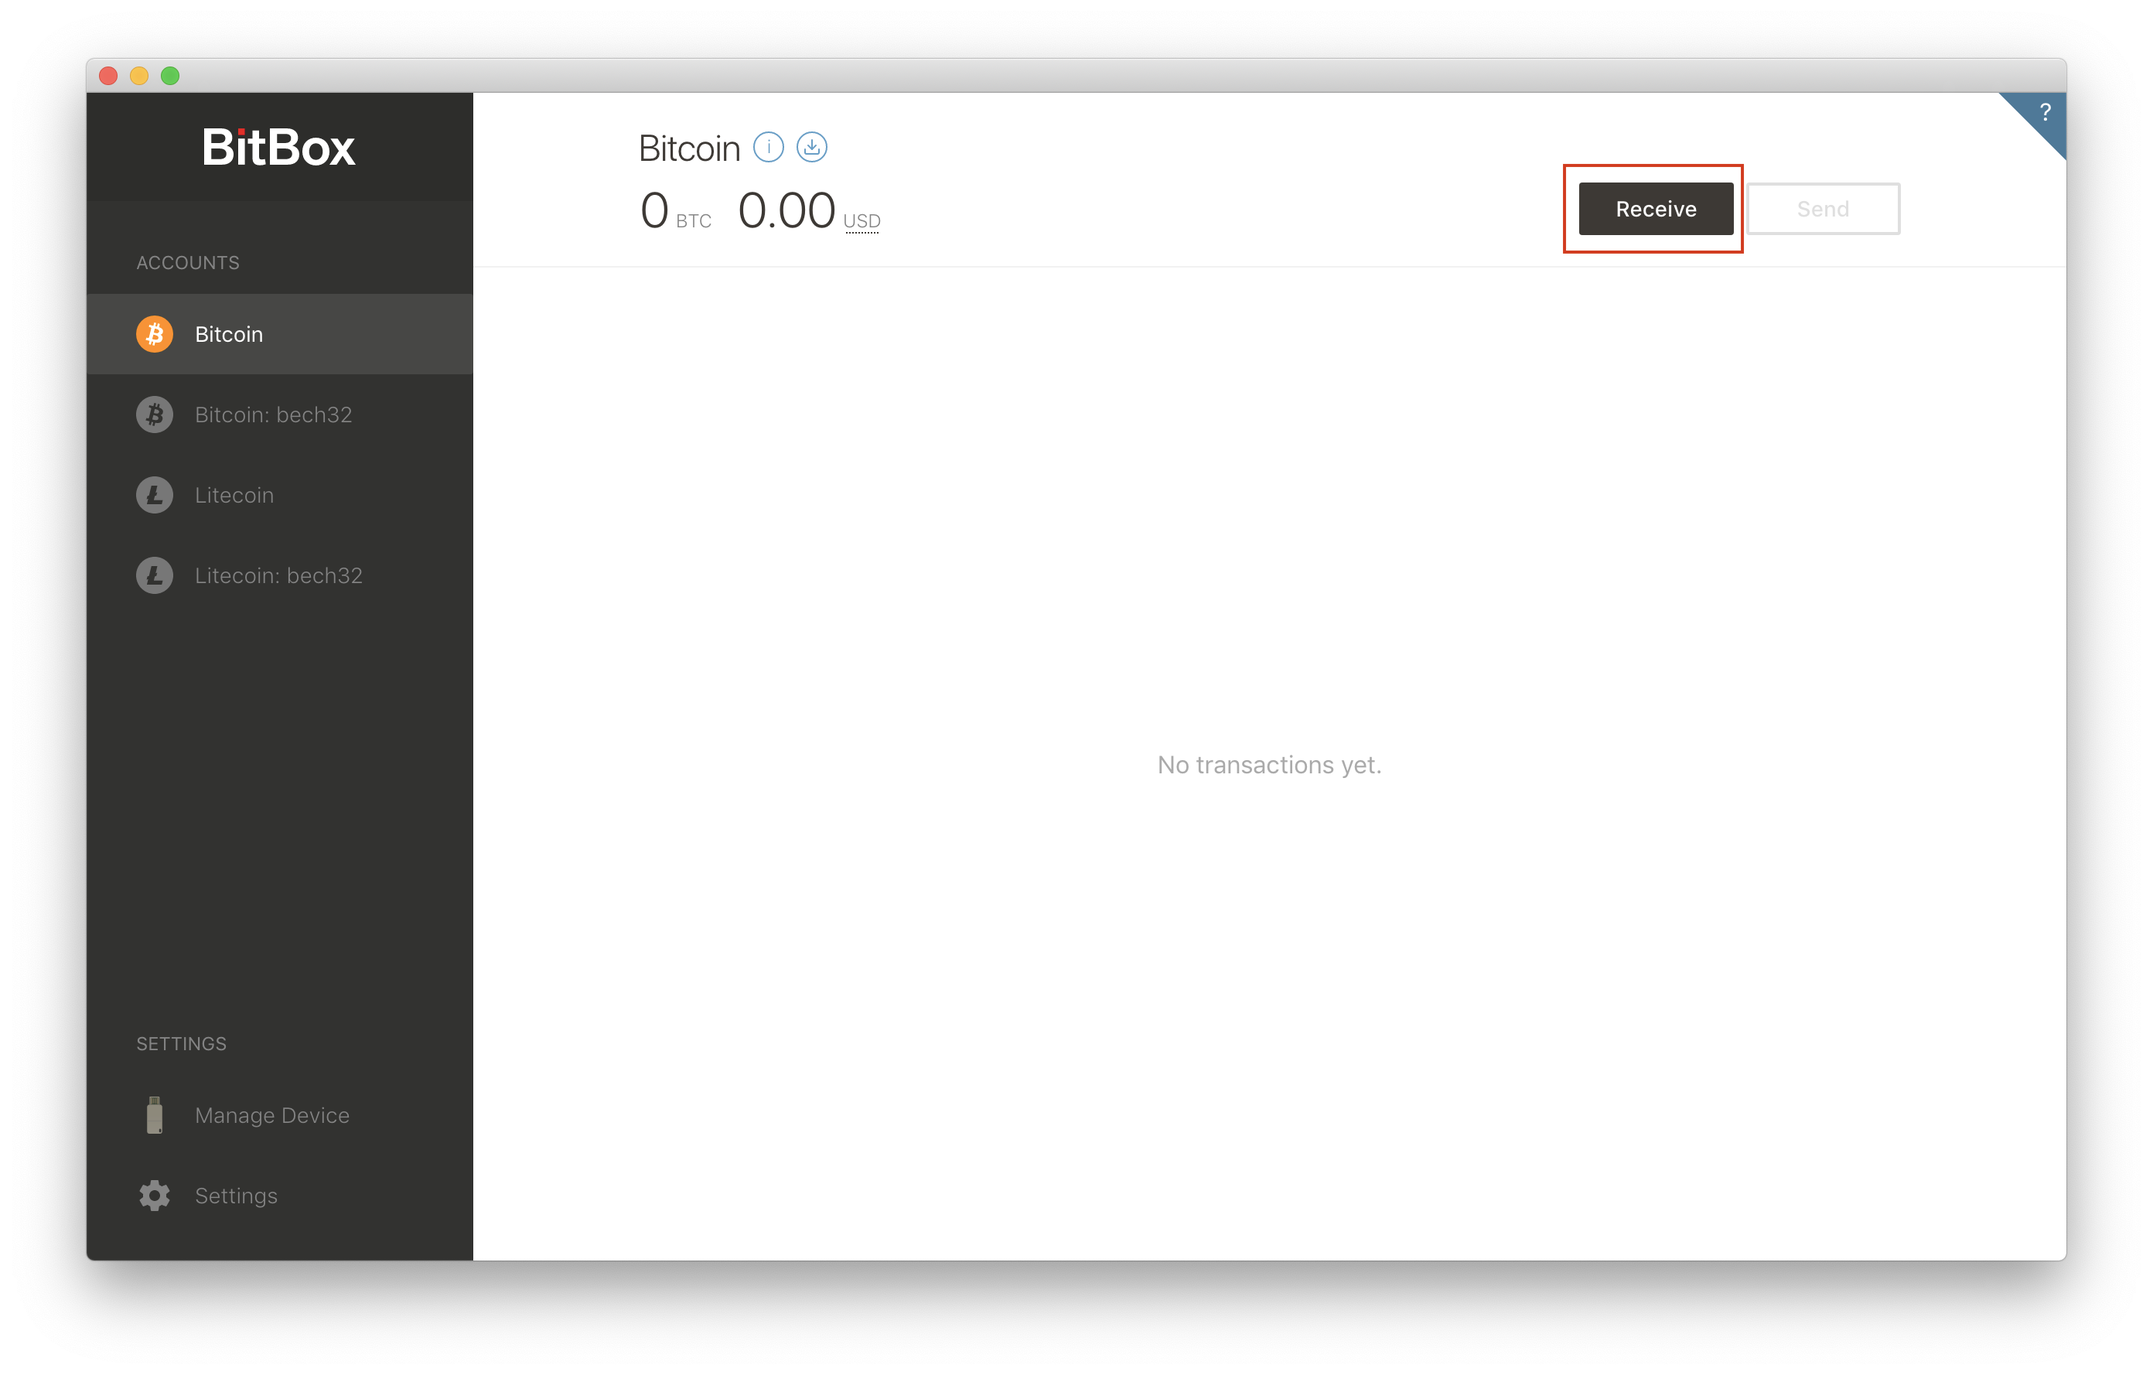
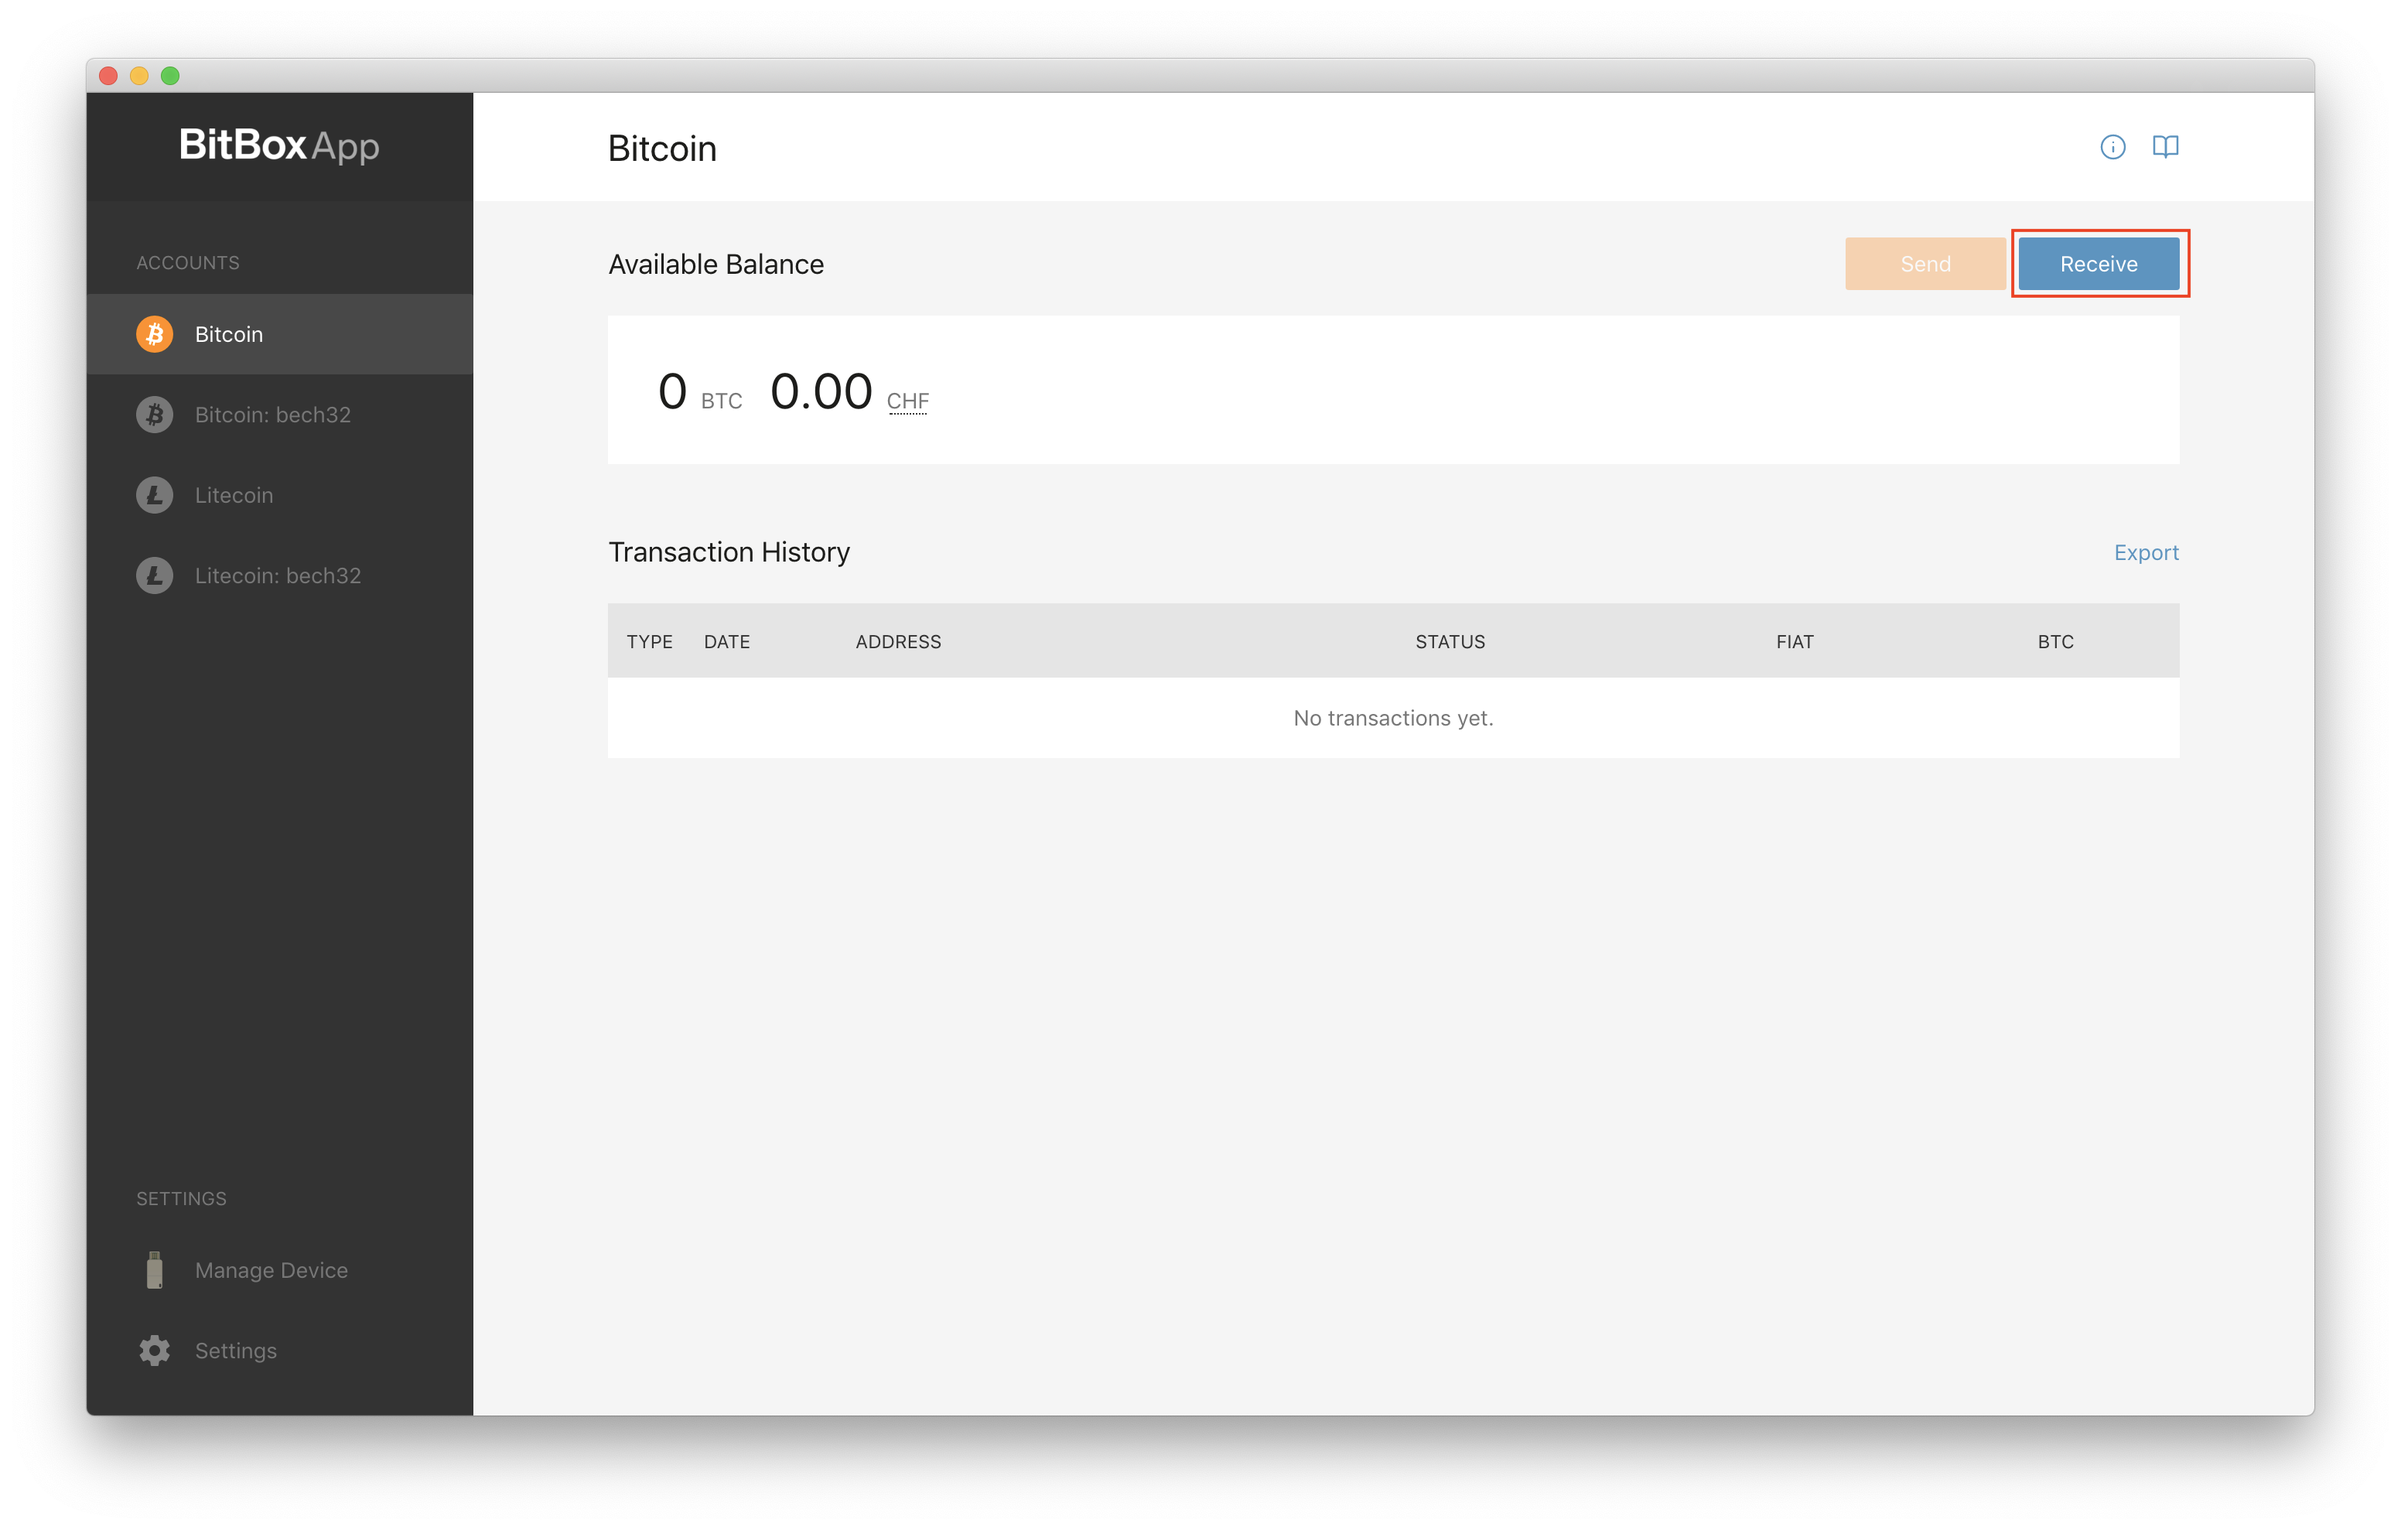
updated BB02 receive

Changed region(s): [[0.0312, 0.0309, 0.9688, 0.928], [0.25, 0.3403, 0.9062, 0.4949], [0.2812, 0.2475, 0.375, 0.2784]]

diff --git a/_includes/shared/setup.md b/_includes/shared/setup.md
@@ -1,25 +1,23 @@
 
 ## Download the BitBox App
 In order to set up your {{include.product}} and create your first wallet you need to download the BitBox App for your computer.
-Stay tuned for our mobile app! To be notified when it is available you can subscribe to our newsletter here.
+Stay tuned for our mobile app! To be notified when it is available you can subscribe to our newsletter [here](https://shiftcrypto.us20.list-manage.com/subscribe/post?u=d425177ce9ba3482f7f26762a&id=df03d20df1)
 
 [Download](https://shiftcrypto.ch/start/){: .btn .btn-primary .fs-5 .mb-4 .mb-md-0 .mr-2 }
 
 
----
+
 
 ## Launch the BitBox app
 
 Once the download is finished, please unpack the app (doube-click on it) and pull it into your application folder.
-
 Then double-click it to launch it.
-
 You should then see a screen that asks you to plug in your {{include.product}}.
 
 ![alt text]({% link assets/images/BitBoxApp/BitBox_App_waiting.png %})
 
 
----
+
 
 ## Insert microSD card & plug in your {{include.product}}
 Before you plug in your {{include.product}}, please already **insert the microSD card** which will be needed in a later step.
@@ -29,7 +27,7 @@ When done, please plug the {{include.product}} into your computer. Depending on 
 {% elsif include.product == "BitBox01" %}
 When done, please plug the {{include.product}} into your computer.
 {% endif %}
----
+
 
 ## Follow the in-App setup-wizard
 

diff --git a/_includes/shared/receive.md b/_includes/shared/receive.md
@@ -25,17 +25,16 @@ You will then see the first few characters of a receive address. In order to get
 ![alt text]({% link assets/images/BitBox02_receive/receive2.png %})
 
 The address will then be shown on your {{include.product}} and the BitBox App at the same time.
-
-Please compare the addresses and confirm on your {{include.product}} if they match.
-
-![alt text]({% link assets/images/BitBox02_receive/receive3.png %})
 {% endif %}
 
-
 ## Copy or scan address
-Now you can scan the QR code of the receive address or copy the receive address by using the copy button on the right of the address.
+You can then scan the QR-code or copy the address.
+
 {% if include.product == "BitBox02" %}
-![alt text]({% link assets/images/BitBox02_receive/receive4.png %})
+Please confirm that the address you scanned with your other wallet and the address shown on your BitBox02 match.
+
+ **Rule:** Always trust your hardware wallet, not the wallet app.
+![alt text]({% link assets/images/BitBox02_receive/receive3.png %})
 {% elsif include.product == "BitBox01" %}
 ![alt text]({% link assets/images/BitBox01_random/bb01_receive1.png %})
 {% endif %}
